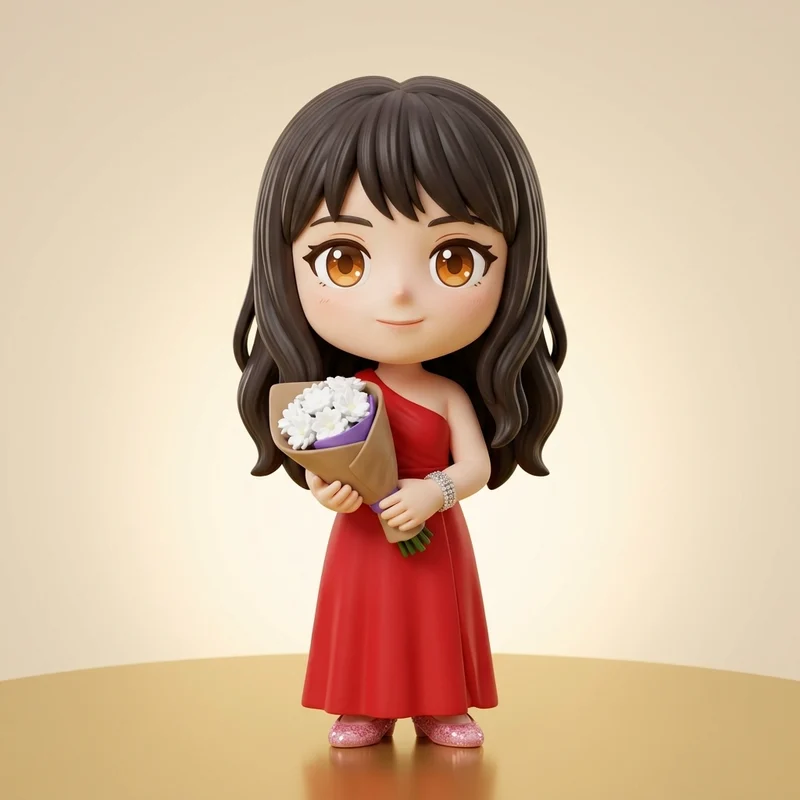
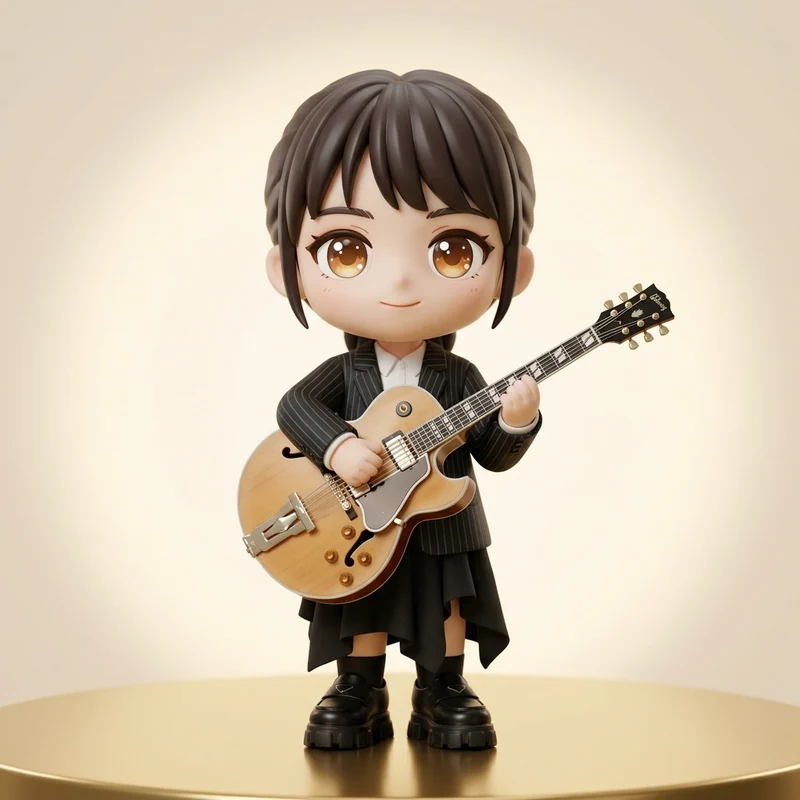
Pairs game: sliding tiles, harder levels and a new cover
From level 3 the remaining tiles slide after a match. More faces earlier,
one hint per level, and a time cost for pairs that can't connect. When no
moves and no shuffles are left, it now auto shuffles for a time cost
instead of ending the level. Cover and tab icon use the guitar figure.

diff --git a/public/game/js/tiles.js b/public/game/js/tiles.js
@@ -1,14 +1,17 @@
 import { AudioEngine } from './audio.js';
-import { LEVELS, buildPositions, dealLevel, findPair, findPath, levelSize, occupied, reshuffle } from './tiles-logic.js';
+import { LEVELS, buildPositions, dealLevel, findPair, findPath, levelSize, occupied, reshuffle, slideTiles } from './tiles-logic.js';
 import { STRINGS, TILES, detectLang } from './i18n.js';
 
 // 牌面圖案：放在 img/tiles/，之後有新的圖，放進資料夾再在這裡加一筆就好。
 // 前面的最好分，每關都會用到；後面幾張長得比較像，到後面的關卡才出現。
 const KINDS = ['fig-red', 'fig-gold-seated', 'fig-tray', 'guitar', 'gold-figure', 'whistle', 'fig-mic', 'note', 'fig-white-dress', 'mic', 'fig-suit', 'washboard', 'white-figure', 'scat', 'fig-khaki', 'fig-bag'];
-const HINTS = 2; // 每關幾次提示
+const HINTS = 1; // 每關幾次提示
 const SHUFFLES = 1; // 每關幾次洗牌
 const COMBO_SECS = 4; // 幾秒內再消一對算連擊
 const WARN_SECS = 10; // 剩幾秒開始滴答
+const NO_PATH_SECS = 2; // 一樣的牌卻連不起來，扣幾秒
+const STUCK_SECS = 5; // 沒牌可消又沒有洗牌次數時，自動洗牌扣幾秒
+const ARROWS = { down: '↓', up: '↑', left: '←', right: '→' };
 const NEXT_LEVEL_DELAY = 1500;
 const SFX_GAIN = 0.55;
 const SCALE = [60, 62, 64, 67, 69, 72, 74, 76, 79, 81, 84]; // 連擊越高，音越高（C 大調五聲音階）
@@ -81,7 +84,8 @@ function showBanner(text) {
 }
 
 function updateHud() {
-  $('level-label').textContent = T.level.replace('{n}', G.index + 1);
+  // 這關牌往哪邊滑，一直顯示在關卡旁邊
+  $('level-label').textContent = `${T.level.replace('{n}', G.index + 1)}${G.level.slide ? ` ${ARROWS[G.level.slide]}` : ''}`;
   $('score-label').textContent = G.score.toLocaleString();
   $('hint-n').textContent = G.hints;
   $('shuffle-n').textContent = G.shuffles;
@@ -176,6 +180,7 @@ function startLevel(index, score) {
     level,
     size,
     tiles,
+    slots: occupied(tiles), // 關卡圖形的格子，牌只會滑進這些格子
     selected: null,
     timeLeft: level.secs,
     tick: 0,
@@ -197,7 +202,7 @@ function startLevel(index, score) {
   board.appendChild(svg);
   layout();
   updateHud();
-  showBanner(T.level.replace('{n}', index + 1));
+  showBanner(level.slide ? `${T.level.replace('{n}', index + 1)} ${T.slides[level.slide]}` : T.level.replace('{n}', index + 1));
 }
 
 function addTileElement(t) {
@@ -271,7 +276,8 @@ function pick(t) {
     // 一樣但連不起來：兩張都抖一下，改選新的這張
     restart(first.el, 'nope');
     restart(t.el, 'nope');
-    showFloat(t, T.noPath);
+    G.timeLeft -= NO_PATH_SECS;
+    showFloat(t, `${T.noPath} -${NO_PATH_SECS}s`);
     engine.stick(engine.now(), 0.06);
     G.selected = t;
     t.el.classList.add('selected');
@@ -298,6 +304,7 @@ function match(a, b, path) {
     setTimeout(() => x.el.remove(), LINE_MS);
   });
   G.tiles = G.tiles.filter((x) => x !== a && x !== b);
+  if (G.level.slide && slideTiles(G.tiles, G.level.slide, G.slots)) layout();
   updateHud();
   if (!G.tiles.length) {
     endLevel(true);
@@ -323,15 +330,17 @@ function showFloat(t, text) {
   setTimeout(() => el.remove(), 800);
 }
 
-// 場上沒有能消的牌：還有洗牌就提醒，沒有就算輸
+// 場上沒有能消的牌：還有洗牌就提醒；沒有就自動洗牌並扣時間，不會因為運氣不好直接輸
 function checkStuck() {
   if (findPair(G.tiles, G.size)) return;
   if (G.shuffles > 0) {
     showBanner(T.noMoves);
     restart($('btn-shuffle'), 'pulse');
-  } else {
-    endLevel(false, T.stuck);
+    return;
   }
+  G.timeLeft -= STUCK_SECS;
+  showBanner(`${T.autoShuffle} -${STUCK_SECS}s`);
+  redeal();
 }
 
 // ---------- 提示與洗牌 ----------
@@ -365,7 +374,12 @@ function useShuffle() {
     G.selected = null;
   }
   G.shuffles--;
+  redeal();
+}
+
+function redeal() {
   reshuffle(G.tiles, G.size);
+  G.tiles.forEach((t) => G.slots.add(`${t.c},${t.r}`)); // 少數情況洗牌會把牌排到圖形外
   for (const t of G.tiles) {
     t.el.querySelector('img').src = `img/tiles/${t.kind}.webp${ASSET_V}`;
     restart(t.el, 'dealt');
@@ -436,5 +450,5 @@ if (new URLSearchParams(location.search).has('debug')) {
     const blocked = occupied(G.tiles);
     for (const a of G.tiles) for (const b of G.tiles) if (a !== b && a.kind === b.kind && !findPath(a, b, blocked, G.size)) return [a, b];
     return null;
-  }, start: startLevel, best: () => best });
+  }, start: startLevel, best: () => best, checkStuck });
 }

diff --git a/public/game/js/tiles-logic.js b/public/game/js/tiles-logic.js
@@ -2,45 +2,46 @@
 // 兩張一樣的牌，只要能用不超過 2 個轉角的線連起來就能消。線只能走空格，也可以繞到牌陣外面一圈。
 
 // 關卡：# 是牌，. 是空格。kinds 是用幾種圖案，secs 是限時幾秒。每關的牌數一定要是雙數。
+// slide 是消牌後其他牌往哪邊滑（down / up / left / right），沒寫就不滑。
 export const LEVELS = [
   { // 第一關：小舞台
-    kinds: 6, secs: 40,
+    kinds: 8, secs: 40,
     rows: ['######', '######', '######', '######'],
   },
   { // 第二關：愛心
-    kinds: 8, secs: 42,
+    kinds: 10, secs: 42,
     rows: ['.##.##.', '#######', '#######', '.#####.', '..###..'],
   },
   { // 第三關：音符
-    kinds: 10, secs: 38,
+    kinds: 13, secs: 38, slide: 'down',
     rows: ['..#####', '..#####', '..#...#', '..#...#', '###.###', '###.###'],
   },
   { // 第四關：吉他
-    kinds: 12, secs: 46,
+    kinds: 16, secs: 46, slide: 'up',
     rows: ['...##..', '...##..', '...##..', '..####.', '.######', '.######', '.######', '..####.'],
   },
   { // 第五關：麥克風
-    kinds: 12, secs: 48,
+    kinds: 16, secs: 48, slide: 'left',
     rows: ['.#####.', '#######', '#######', '.#####.', '...#...', '...#...', '..###..', '.#####.'],
   },
   { // 第六關：星星
-    kinds: 13, secs: 46,
+    kinds: 16, secs: 46, slide: 'right',
     rows: ['...#...', '..###..', '#######', '#######', '.#####.', '.#####.', '.##.##.', '.#...#.'],
   },
   { // 第七關：鋼琴鍵盤
-    kinds: 14, secs: 44,
+    kinds: 16, secs: 44, slide: 'down',
     rows: ['#######', '#######', '#.#.#.#', '#.#.#.#', '#.#.#.#', '#.#.#.#', '#.#.#.#'],
   },
   { // 第八關：洗衣板
-    kinds: 14, secs: 44,
+    kinds: 16, secs: 44, slide: 'left',
     rows: ['#######', '#.....#', '#######', '#.....#', '#######', '#.....#', '#######', '#.....#'],
   },
   { // 第九關：舞台拱門
-    kinds: 15, secs: 56,
+    kinds: 16, secs: 56, slide: 'up',
     rows: ['#######', '#######', '#######', '#######', '###.###', '##...##', '##...##', '##...##'],
   },
   { // 第十關：滿滿一面牆，一開始只有外圈的牌連得到
-    kinds: 16, secs: 68,
+    kinds: 16, secs: 68, slide: 'down',
     rows: ['#######', '#######', '#######', '#######', '#######', '#######', '#######', '#######'],
   },
 ];
@@ -115,6 +116,28 @@ export function findPath(a, b, blocked, size) {
 }
 
 export const occupied = (tiles) => new Set(tiles.map((t) => key(t.c, t.r)));
+
+const SLIDES = { down: [0, 1], up: [0, -1], left: [-1, 0], right: [1, 0] };
+
+// 消牌後，其他牌往 dir 滑到底。只會滑進關卡圖形裡的格子（slots），碰到別的牌或圖形的缺口就停。
+// 回傳有沒有牌移動。
+export function slideTiles(tiles, dir, slots) {
+  const [x, y] = SLIDES[dir];
+  const taken = occupied(tiles);
+  // 最靠近目的地的牌先滑，後面的牌才有位置補上
+  const queue = [...tiles].sort((p, q) => (q.c - p.c) * x + (q.r - p.r) * y);
+  let moved = false;
+  for (const t of queue) {
+    taken.delete(key(t.c, t.r));
+    while (slots.has(key(t.c + x, t.r + y)) && !taken.has(key(t.c + x, t.r + y))) {
+      t.c += x;
+      t.r += y;
+      moved = true;
+    }
+    taken.add(key(t.c, t.r));
+  }
+  return moved;
+}
 
 // 發牌：從空盤開始，一次放一對，放的時候這兩格要連得起來。
 // 反過來照放的順序消，每一對當下都連得到，所以每局都解得開。回傳消牌順序，發不出來就回傳 null。

diff --git a/public/game/js/i18n.js b/public/game/js/i18n.js
@@ -343,6 +343,7 @@ export const TILES = {
     how1: '點兩張一樣的牌，連得起來就會消除',
     how2: '連線只能走空格，最多轉 2 個彎',
     how3: '在時間內全部消完就過關',
+    how4: '第 3 關起，消牌後其他牌會往箭頭方向滑',
     start: '開始',
     level: '第 {n} 關',
     hint: '提示',
@@ -354,6 +355,8 @@ export const TILES = {
     timeUp: '時間到，再試一次！',
     stuck: '沒有牌可以消了，再試一次！',
     noMoves: '沒有牌可以消了，按洗牌',
+    autoShuffle: '沒牌可消，自動洗牌',
+    slides: { down: '牌會往下滑', up: '牌會往上滑', left: '牌會往左滑', right: '牌會往右滑' },
     retry: '重打這一關',
     quit: '結束遊戲',
     credit: '非官方粉絲遊戲｜圖片由 AI 生成',
@@ -364,6 +367,7 @@ export const TILES = {
     how1: 'Tap two matching tiles. If a line can join them, they clear.',
     how2: 'The line only crosses empty spaces, with at most 2 turns',
     how3: 'Clear them all before time runs out',
+    how4: 'From level 3, the other tiles slide the way the arrow points',
     start: 'Start',
     level: 'Level {n}',
     hint: 'Hint',
@@ -375,6 +379,8 @@ export const TILES = {
     timeUp: "Time's up. Try again!",
     stuck: 'No matches left. Try again!',
     noMoves: 'No matches left. Shuffle!',
+    autoShuffle: 'No matches, auto shuffle',
+    slides: { down: 'Tiles slide down', up: 'Tiles slide up', left: 'Tiles slide left', right: 'Tiles slide right' },
     retry: 'Restart this level',
     quit: 'Quit game',
     credit: 'Unofficial fan game | Images are AI-generated',
@@ -385,6 +391,7 @@ export const TILES = {
     how1: '同じ牌を 2 枚タップ。線でつながれば消える',
     how2: '線は空いたマスだけを通り、曲がれるのは 2 回まで',
     how3: '時間内に全部消せばクリア',
+    how4: 'ステージ 3 から、他の牌が矢印の方向へスライドする',
     start: 'スタート',
     level: 'ステージ {n}',
     hint: 'ヒント',
@@ -396,6 +403,8 @@ export const TILES = {
     timeUp: '時間切れ！もう一回！',
     stuck: '消せる牌がありません。もう一回！',
     noMoves: '消せる牌なし。シャッフルしよう',
+    autoShuffle: '消せる牌なし、自動シャッフル',
+    slides: { down: '牌が下へ', up: '牌が上へ', left: '牌が左へ', right: '牌が右へ' },
     retry: 'このステージをやり直す',
     quit: 'ゲームを終了',
     credit: '非公式ファンゲーム｜画像は AI 生成です',

diff --git a/public/game/tiles.html b/public/game/tiles.html
@@ -6,7 +6,7 @@
   <title>Ponpon Pairs｜Ponpon 公仔對對碰</title>
   <meta name="description" content="Ponpon 公仔對對碰：點兩張一樣的牌就會消除，在時間內全部消完就過關。" />
   <meta name="theme-color" content="#0a0a0a" />
-  <link rel="icon" href="img/tiles/fig-red.webp" />
+  <link rel="icon" href="img/tiles/fig-suit.webp" />
   <link rel="preconnect" href="https://fonts.googleapis.com" />
   <link rel="preconnect" href="https://fonts.gstatic.com" crossorigin />
   <link href="https://fonts.googleapis.com/css2?family=Inter:wght@400;600;700&family=Playfair+Display:ital,wght@0,600;0,700;1,600&display=swap" rel="stylesheet" />
@@ -32,6 +32,7 @@
           <li data-i18n="how1"></li>
           <li data-i18n="how2"></li>
           <li data-i18n="how3"></li>
+          <li data-i18n="how4"></li>
         </ul>
         <button type="button" id="btn-start" class="btn-primary" data-i18n="start"></button>
         <p class="hint" id="title-best"></p>
